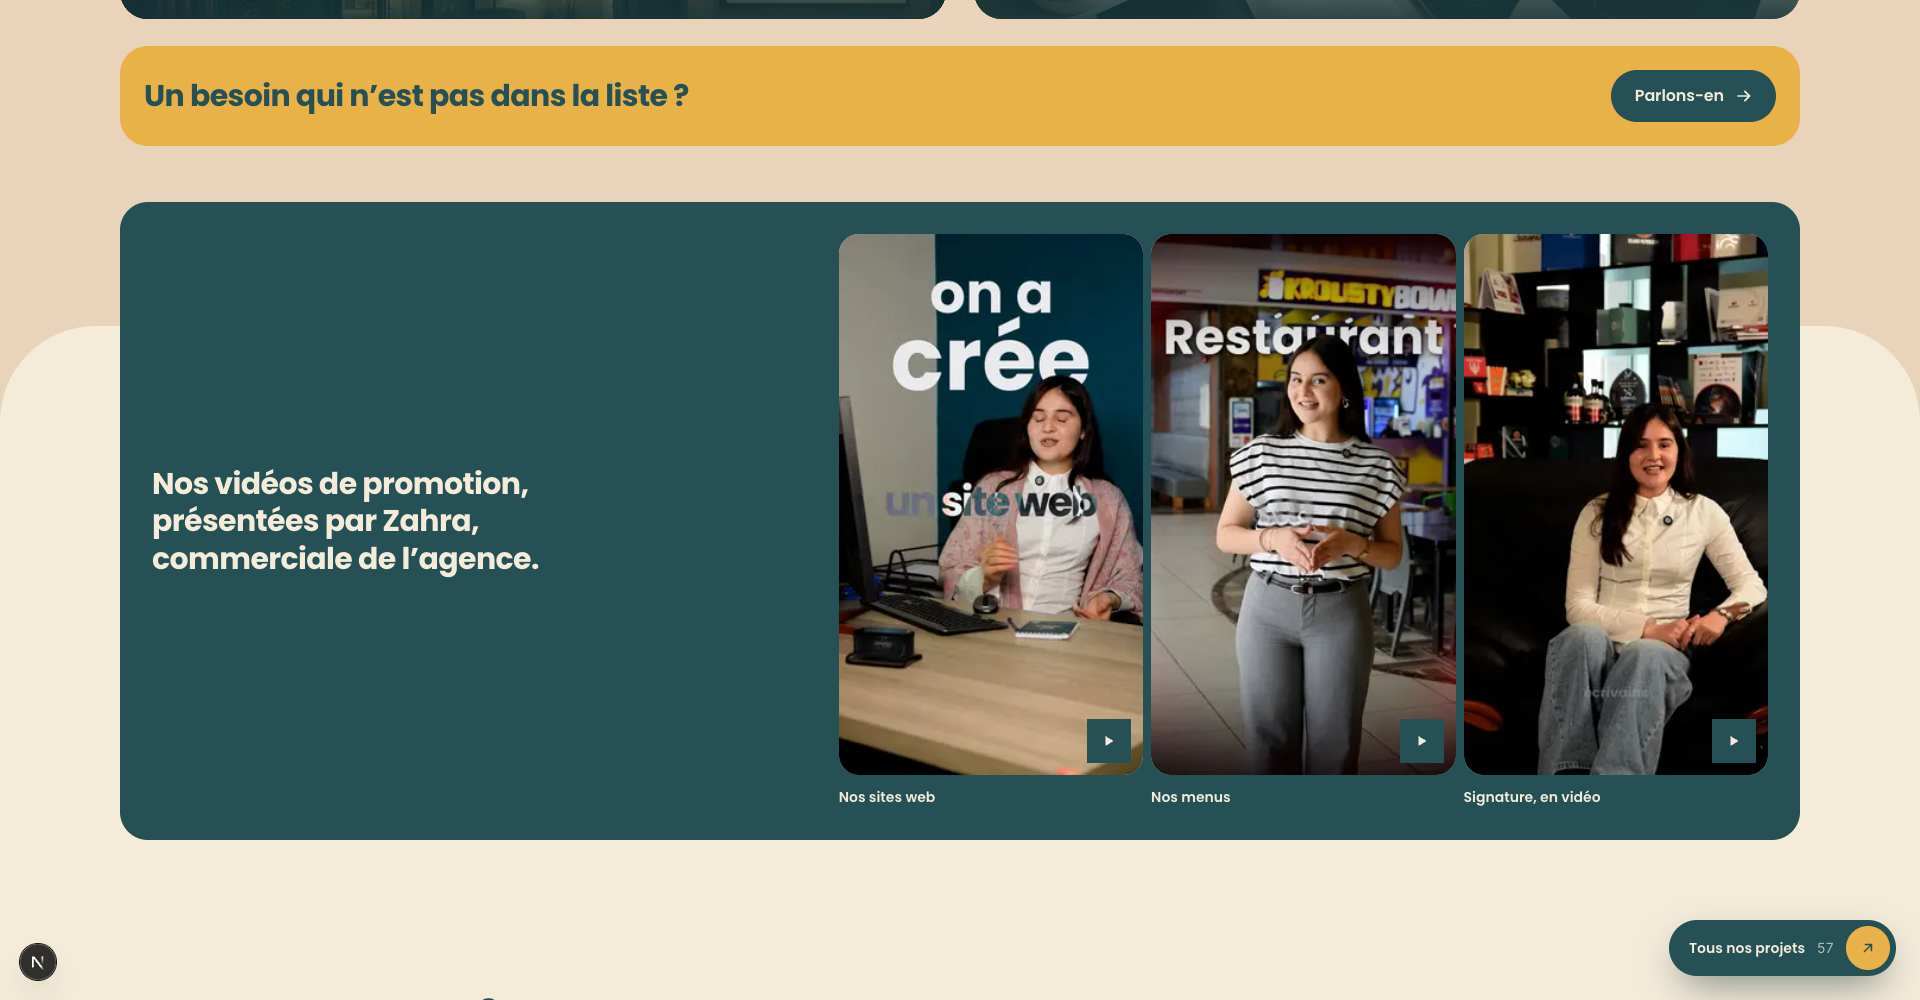
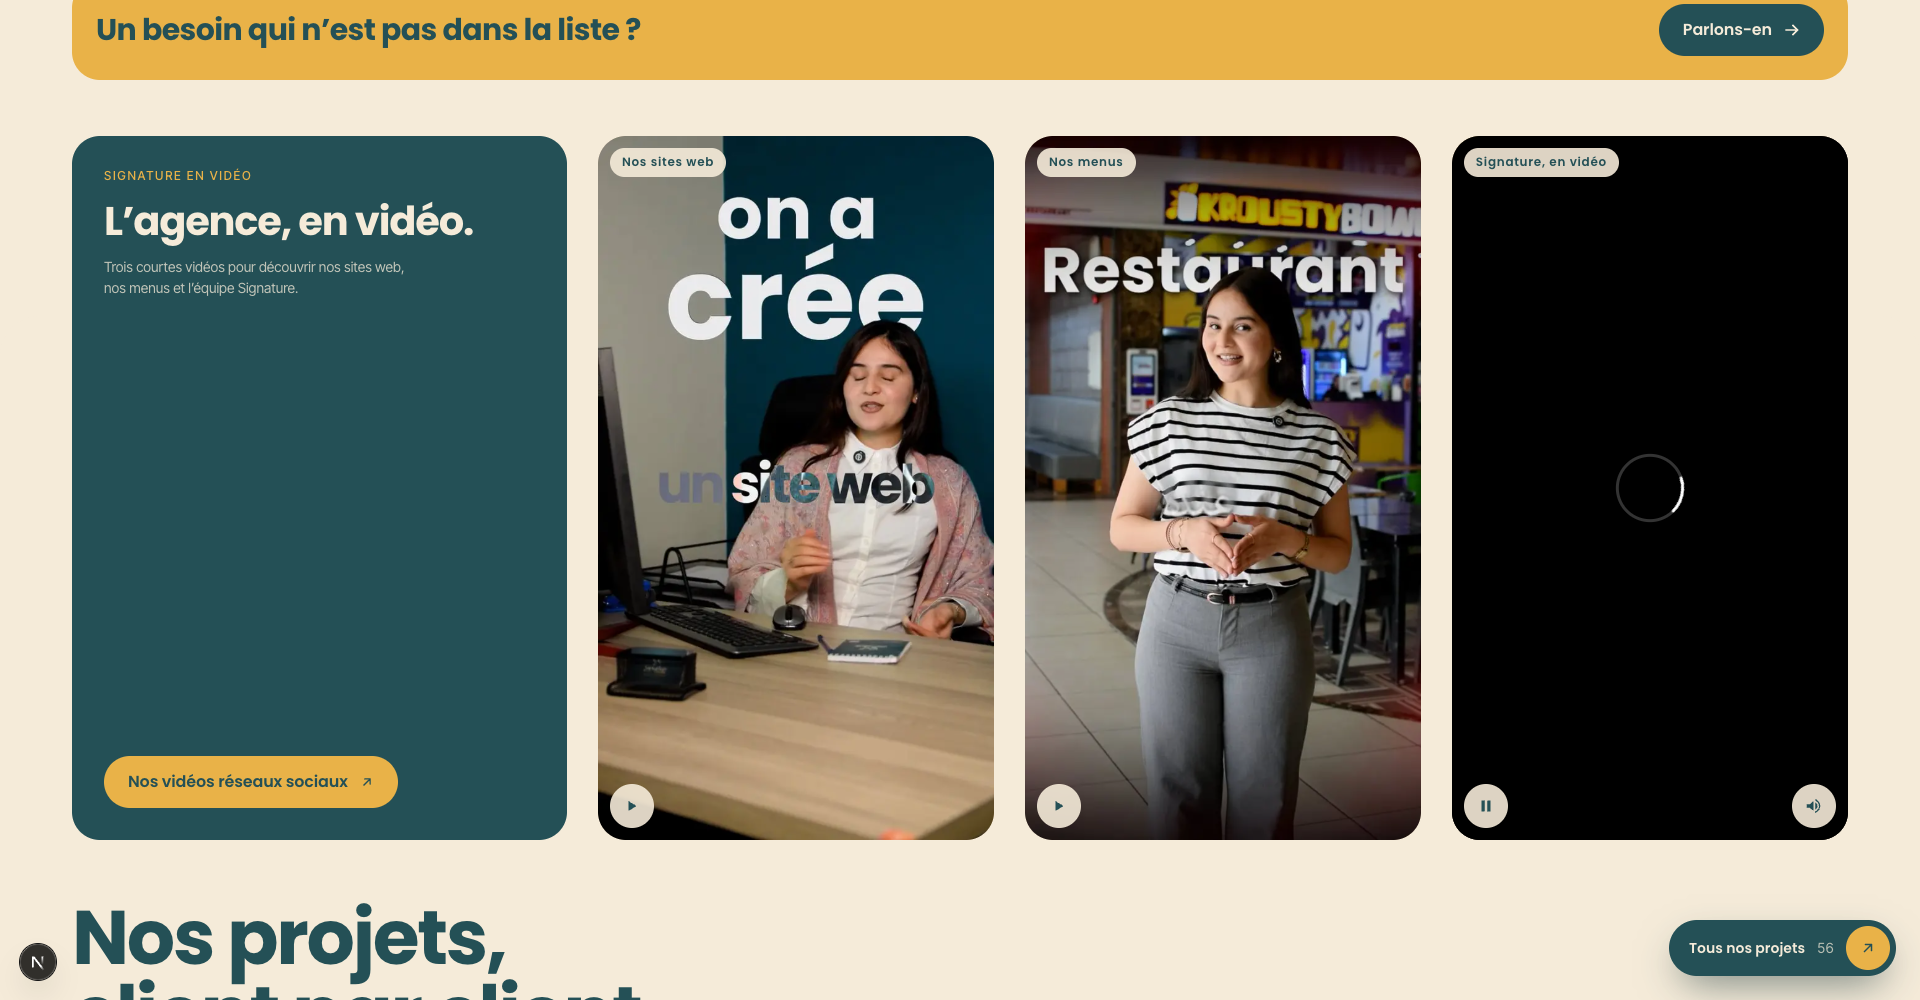
fix videos section

diff --git a/src/components/home/Closing.tsx b/src/components/home/Closing.tsx
@@ -112,13 +112,14 @@ export function Services() {
           <li className="col-span-2 lg:col-span-4 lg:row-span-1 lg:h-auto">
             <a
               href="#contact"
-              className="group flex h-full flex-col justify-between gap-4 rounded-[var(--radius-lg)] bg-ochre p-5 text-teal no-underline transition-transform duration-[var(--dur-ui)] ease-[var(--ease-out-quint)] hover:-translate-y-1 active:scale-[0.98] sm:flex-row sm:items-center sm:p-6"
+              className="group flex h-full items-center justify-between gap-4 rounded-[var(--radius-lg)] bg-ochre py-3 pl-5 pr-3 text-teal no-underline transition-transform duration-[var(--dur-ui)] ease-[var(--ease-out-quint)] hover:-translate-y-1 active:scale-[0.98] sm:p-6"
             >
-              <span className="font-display text-h3 leading-tight">
+              <span className="font-display text-[1.0625rem] font-bold leading-tight sm:text-h3">
                 {t.customTitle}
               </span>
-              <span className="btn btn-primary !bg-teal !text-cream self-start sm:self-auto">
-                <span className="btn-label">{t.customAction}</span>
+              {/* Phones: a round arrow only, so the strip stays one slim line. */}
+              <span className="btn btn-primary !bg-teal !text-cream shrink-0 max-sm:!size-11 max-sm:!p-0 max-sm:justify-center">
+                <span className="btn-label max-sm:sr-only">{t.customAction}</span>
                 <ArrowIcon />
               </span>
             </a>
@@ -429,14 +430,28 @@ export function AgencyBridge() {
       {/* The cream page coming up under the card: its rounded top meets the sand of Services. */}
       <div aria-hidden="true" className="absolute inset-x-0 bottom-0 top-[180px] rounded-t-[var(--radius-xl)] bg-cream" />
       <Container>
-        <div className="tone-teal relative rounded-[var(--radius-lg)] bg-teal p-6 text-cream md:p-8">
-          <div className="grid gap-8 lg:grid-cols-12 lg:items-center">
-            <p className="font-display text-h3 leading-tight lg:col-span-4">
-              {t.videosLabel}
-            </p>
-            <div className="lg:col-span-7 lg:col-start-6">
-              <AgencyVideos label="" />
+        {/* Bento: the words in a teal tile, each video in its own tile beside it. */}
+        <div className="relative flex flex-col gap-8 lg:grid lg:grid-cols-[1.25fr_1fr_1fr_1fr] lg:gap-[var(--space-grid)]">
+          {/* Phones: no tile, just the words on the page, so it does not stack box on box. */}
+          <div className="flex flex-col justify-between gap-6 max-lg:items-center max-lg:text-center lg:gap-8 lg:rounded-[var(--radius-lg)] lg:bg-teal lg:p-8 lg:text-cream">
+            <div className="flex flex-col gap-4">
+              <span className="font-sans text-meta uppercase tracking-[0.14em] text-teal-muted lg:text-ochre">{t.videosKicker}</span>
+              <p className="font-display text-h2 font-bold leading-[1.02] lg:text-[clamp(1.75rem,2.4vw,2.5rem)] tracking-[-0.03em] text-teal lg:text-cream">{t.videosLabel}</p>
+              <p className="max-w-[38ch] text-small text-teal-muted lg:text-cream/75">{t.videosLine}</p>
             </div>
+            {/* Phones: no button here, the videos below are the action. */}
+            <div className="max-lg:hidden">
+              <span className="tone-teal block">
+                <Link href="/projets#dossier-reseaux-sociaux" className="btn btn-primary">
+                  <span className="btn-label">{t.videosCta}</span>
+                  <ArrowUpRightIcon size={14} />
+                </Link>
+              </span>
+            </div>
+          </div>
+          {/* Phones: one swipeable row of large tiles (the next one peeks out); desktop: bento tiles. */}
+          <div className="-mx-[var(--gutter)] flex snap-x snap-mandatory gap-3 overflow-x-auto px-[var(--gutter)] pb-1 [scrollbar-width:none] lg:contents">
+            <AgencyVideos label="" />
           </div>
         </div>
       </Container>

diff --git a/src/components/work/ClientShowcase.tsx b/src/components/work/ClientShowcase.tsx
@@ -39,13 +39,14 @@ export function ClientShowcase() {
           <li key={c.id}>
             <Reveal>
 
-              <div className="grid gap-[var(--space-grid)] gap-y-8 lg:grid-cols-12 lg:gap-x-14">
+              <div className="grid gap-[var(--space-grid)] gap-y-6 lg:grid-cols-12 lg:gap-x-14">
                 {/* The story */}
-                <RevealItem className={b % 2 ? "lg:order-2 lg:col-span-4" : "lg:col-span-4"}>
-                  <div className="flex flex-col gap-6 lg:sticky lg:top-28">
+                {/* Phones: the work comes first (the eye goes to the picture), then the name and one action. */}
+                <RevealItem className={b % 2 ? "max-lg:order-2 lg:order-2 lg:col-span-4" : "max-lg:order-2 lg:col-span-4"}>
+                  <div className="flex flex-col gap-4 lg:sticky lg:top-28 lg:gap-6">
                     <h3 className="font-display text-[clamp(1.875rem,2.6vw,2.75rem)] font-bold leading-[1] tracking-[-0.03em]">{c.name}</h3>
                     <p className="max-w-[36ch] text-lead text-ink-muted">{c.line}</p>
-                    <dl className="grid grid-cols-3 rounded-[var(--radius-lg)] bg-sand/60 py-4">
+                    <dl className="grid grid-cols-3 rounded-[var(--radius-lg)] bg-sand/60 py-3 lg:py-4">
                       {stats.map((st) => (
                         <div key={st.l} className="flex flex-col items-center gap-1">
                           <dt className="sr-only">{st.l}</dt>
@@ -59,7 +60,7 @@ export function ClientShowcase() {
                         <span className="btn-label">{home.showcase.open}</span>
                         <ArrowUpRightIcon size={14} />
                       </Link>
-                      <Link href="#contact" className="btn btn-secondary">
+                      <Link href="#contact" className="btn btn-secondary max-lg:hidden">
                         <span className="btn-label">{home.showcase.start}</span>
                       </Link>
                     </div>
@@ -69,7 +70,7 @@ export function ClientShowcase() {
                 {/* The work */}
                 {video ? (
                   // With a video: two pictures stacked on the left, the video tall on the right.
-                  <RevealItem className={`grid grid-cols-3 gap-[var(--space-grid)] lg:col-span-8 ${b % 2 ? "lg:order-1" : ""}`}>
+                  <RevealItem className={`grid grid-cols-3 gap-[var(--space-grid)] max-lg:order-1 lg:col-span-8 ${b % 2 ? "lg:order-1" : ""}`}>
                     <div className="col-span-2 grid gap-[var(--space-grid)]">
                       {stills.filter((src) => src !== thumbOf(video)).slice(0, 2).map((src, k) => (
                         <Link key={k} href={href} aria-label={`${c.name}, ${home.showcase.open}`} className="group relative block aspect-[16/10] overflow-hidden rounded-[var(--radius-lg)] bg-sand">
@@ -91,7 +92,7 @@ export function ClientShowcase() {
                     </div>
                   </RevealItem>
                 ) : (
-                  <RevealItem className={`grid grid-cols-2 gap-[var(--space-grid)] lg:col-span-8 ${b % 2 ? "lg:order-1" : ""}`}>
+                  <RevealItem className={`grid grid-cols-2 gap-[var(--space-grid)] max-lg:order-1 lg:col-span-8 ${b % 2 ? "lg:order-1" : ""}`}>
                     <Link href={href} aria-label={`${c.name}, ${home.showcase.open}`} className="group relative col-span-2 block aspect-[16/10] overflow-hidden rounded-[var(--radius-xl)] bg-sand">
                       <Image src={stills[0]} alt="" fill sizes="(min-width: 1024px) 62vw, 100vw" className={img} />
                     </Link>

diff --git a/src/components/work/AgencyVideos.tsx b/src/components/work/AgencyVideos.tsx
@@ -4,32 +4,28 @@ import { agencyVideos } from "@/content/projects";
 import { MediaPiece } from "./MediaPiece";
 
 /**
- * Signature's own promotional videos (presented by Zahra, commerciale de l'agence): three
- * vertical videos in a row, widths ∝ ratio so they share one height, a caption under each.
+ * Signature's own promotional videos: one bento tile each (vertical, 9:16), the title in a chip
+ * at the top, play and sound buttons at the bottom. Rendered as grid items of the parent bento.
  */
 export function AgencyVideos({ label }: { label: string }) {
   return (
-    <figure>
-      <div className="flex gap-2">
-        {agencyVideos.map((v) => (
-          <div key={v.title} className="relative min-w-0" style={{ flex: `${v.media.ratio} 1 0` }}>
-            <MediaPiece
-              plain
-              media={v.media}
-              edges={{ top: "flat", bottom: "flat", left: "flat", right: "flat" }}
-              sizes="(min-width: 1024px) 200px, 33vw"
-            />
-          </div>
-        ))}
-      </div>
-      <div className="mt-3 flex gap-2">
-        {agencyVideos.map((v) => (
-          <p key={v.title} className="min-w-0 pr-2 font-display text-small font-semibold" style={{ flex: `${v.media.ratio} 1 0` }}>
+    <>
+      {agencyVideos.map((v) => (
+        <figure key={v.title} className="relative w-[64%] shrink-0 snap-start scroll-ml-[var(--gutter)] sm:w-[40%] lg:w-auto lg:min-w-0">
+          <MediaPiece
+            plain
+            shape={9 / 16}
+            media={v.media}
+            edges={{ top: "flat", bottom: "flat", left: "flat", right: "flat" }}
+            sizes="(min-width: 1024px) 22vw, 33vw"
+            className="!rounded-[var(--radius-lg)]"
+          />
+          <figcaption className="pointer-events-none absolute left-3 top-3 z-[3] rounded-full bg-cream/90 px-3 py-1.5 font-display text-meta font-semibold text-teal backdrop-blur">
             {v.title}
-          </p>
-        ))}
-      </div>
-      {label ? <figcaption className="mt-3 text-small text-ink-muted">{label}</figcaption> : null}
-    </figure>
+          </figcaption>
+        </figure>
+      ))}
+      {label ? <p className="sr-only">{label}</p> : null}
+    </>
   );
 }

diff --git a/src/content/projects.ts b/src/content/projects.ts
@@ -105,9 +105,9 @@ const V = {
   souipanel: vimeo("1246220225", "2225553681-e38a4554b57f3ed0e0cc0682a2e6760f755247f5e3716c1013ef1b3d61c691ac", "Souipanel, vidéo du stand"),
   riffCollage: vimeo("1246220224", "2225554127-6f1190d10d77e07ad42f62f7b7d58bc09edbe8325784ae8d68af4e42775fc3dd", "RIFF, collage vidéo"),
   riffPromo: vimeo("1246220229", "2225554665-c45ee11f93fdd05ff767cf9f5609d4eacd08e6fe489f16c7ab3d6892528c95ce", "RIFF Promotion, film", false),
-  zahraSite: vimeo("1246219262", "2225552431-5607d67894f624819b6870011d8b6f064ab7d61e01f59caf11c48bc049a104ca", "Signature, sites web — présenté par Zahra"),
-  zahraSignature: vimeo("1246219263", "2225552573-9ce5f59d381f8ed9814f9a778bc318fac4b84c5bacba03df5a4577d06239db01", "Signature, vidéo de l’agence — présentée par Zahra"),
-  zahraMenu: vimeo("1246219302", "2225552487-a11de38ed830914be96540437da5b204c80ccb8c5af1fdf4cc1bba7e597be57b", "Signature, menus — présenté par Zahra"),
+  zahraSite: vimeo("1246219262", "2225552431-5607d67894f624819b6870011d8b6f064ab7d61e01f59caf11c48bc049a104ca", "Signature, sites web"),
+  zahraSignature: vimeo("1246219263", "2225552573-9ce5f59d381f8ed9814f9a778bc318fac4b84c5bacba03df5a4577d06239db01", "Signature, vidéo de l’agence"),
+  zahraMenu: vimeo("1246219302", "2225552487-a11de38ed830914be96540437da5b204c80ccb8c5af1fdf4cc1bba7e597be57b", "Signature, menus"),
   louiz1: vimeo("1246213183", "2225546069-2313c53f622f31f73799d07c1fbde6bd11d99c01db8d85eeff42f987002cb159", "Louiz, salon jour 1"),
   louiz2: vimeo("1246213184", "2225545959-66766f77af45da05a7195cd3112726961e977d4e71aa7a197504c0901f44c106", "Louiz, salon jour 2"),
   hasena: vimeo("1246213181", "2225546905-cee9333ad7778f0d8397d23d6c88cbc7af9818add93ae1d45b724f0090500b1f", "Hasena Millénium"),
@@ -264,7 +264,7 @@ export const showcase: { client: ClientId; pieces: [string, number][] }[] = [
 ];
 
 /**
- * Signature's own promotional videos, presented by Zahra (commerciale de l'agence). Not client
+ * Signature's own promotional videos, presented by the agency's commerciale. Not client
  * work: shown with the services, each next to the service it promotes.
  */
 export const agencyVideos: { title: string; media: Media }[] = [

diff --git a/src/components/work/MediaPiece.tsx b/src/components/work/MediaPiece.tsx
@@ -78,6 +78,7 @@ export function MediaPiece({
   vertical = false,
   still = false,
   plain = false,
+  smallControls = false,
   className,
   style,
 }: {
@@ -85,6 +86,8 @@ export function MediaPiece({
   still?: boolean;
   /** A clean rectangle in the media's shape: no puzzle cut, no knobs, no bevel. */
   plain?: boolean;
+  /** Smaller play / sound buttons on phones (for narrow tiles). */
+  smallControls?: boolean;
   media: Media;
   edges: Edges;
   sizes: string;
@@ -210,7 +213,7 @@ export function MediaPiece({
   };
   // A video plays where it is: clicking it starts or stops it, it does not open the project.
   const link = href && !isVideo ? href : undefined;
-  const btn = "flex size-11 items-center justify-center rounded-full bg-cream/90 text-teal backdrop-blur transition-transform duration-[var(--dur-press)] hover:bg-cream active:scale-[0.92]";
+  const btn = clsx(smallControls && "max-md:size-7 max-md:[&_svg]:size-3", "flex size-11 items-center justify-center rounded-full bg-cream/90 text-teal backdrop-blur transition-transform duration-[var(--dur-press)] hover:bg-cream active:scale-[0.92]");
   const controls = isVideo ? (
     <>
       <button
@@ -219,7 +222,7 @@ export function MediaPiece({
         aria-label={`${play ? "Pause" : "Lire"} : ${media.title}`}
         className="absolute inset-0 z-[2] cursor-pointer outline-offset-[-4px]"
       />
-      <div className="pointer-events-none absolute inset-x-3 bottom-3 z-[3] flex items-center justify-between">
+      <div className={clsx("pointer-events-none absolute z-[3] flex items-center justify-between", smallControls ? "inset-x-1.5 bottom-1.5 md:inset-x-3 md:bottom-3" : "inset-x-3 bottom-3")}>
         <span aria-hidden="true" className={clsx(btn, "pointer-events-none")}>
           {play ? <Pause /> : <Play />}
         </span>

diff --git a/src/app/page.tsx b/src/app/page.tsx
@@ -38,7 +38,7 @@ export default function HomePage() {
         <Services />
         {/* Outside the projects section, so no section clipping can cut it (iOS Safari). */}
         <AgencyBridge />
-        <Section id="projets" tone="cream" sheet spacing="compact" aria-labelledby="projets-title" className="scroll-mt-16 !pt-[200px]">
+        <Section id="projets" tone="cream" sheet spacing="compact" aria-labelledby="projets-title" className="scroll-mt-16 !pt-[250px] lg:!pt-[200px]">
           <Container>
             <SectionHead id="projets-title" title={home.showcase.title} lead={home.showcase.lead} />
             <div className="mt-[var(--space-head)]">

diff --git a/src/content/site.ts b/src/content/site.ts
@@ -89,7 +89,10 @@ export const home = {
     customTitle: "Un besoin qui n’est pas dans la liste ?",
     customAction: "Parlons-en",
     flyerTitle: "Nos services",
-    videosLabel: "Nos vidéos de promotion, présentées par Zahra, commerciale de l’agence.",
+    videosLabel: "L’agence, en vidéo.",
+    videosKicker: "Signature en vidéo",
+    videosLine: "Trois courtes vidéos pour découvrir nos sites web, nos menus et l’équipe Signature.",
+    videosCta: "Nos vidéos réseaux sociaux",
     flyerSub: "Prenez ce qu’il vous faut",
     action: "Voir les projets",
   },
